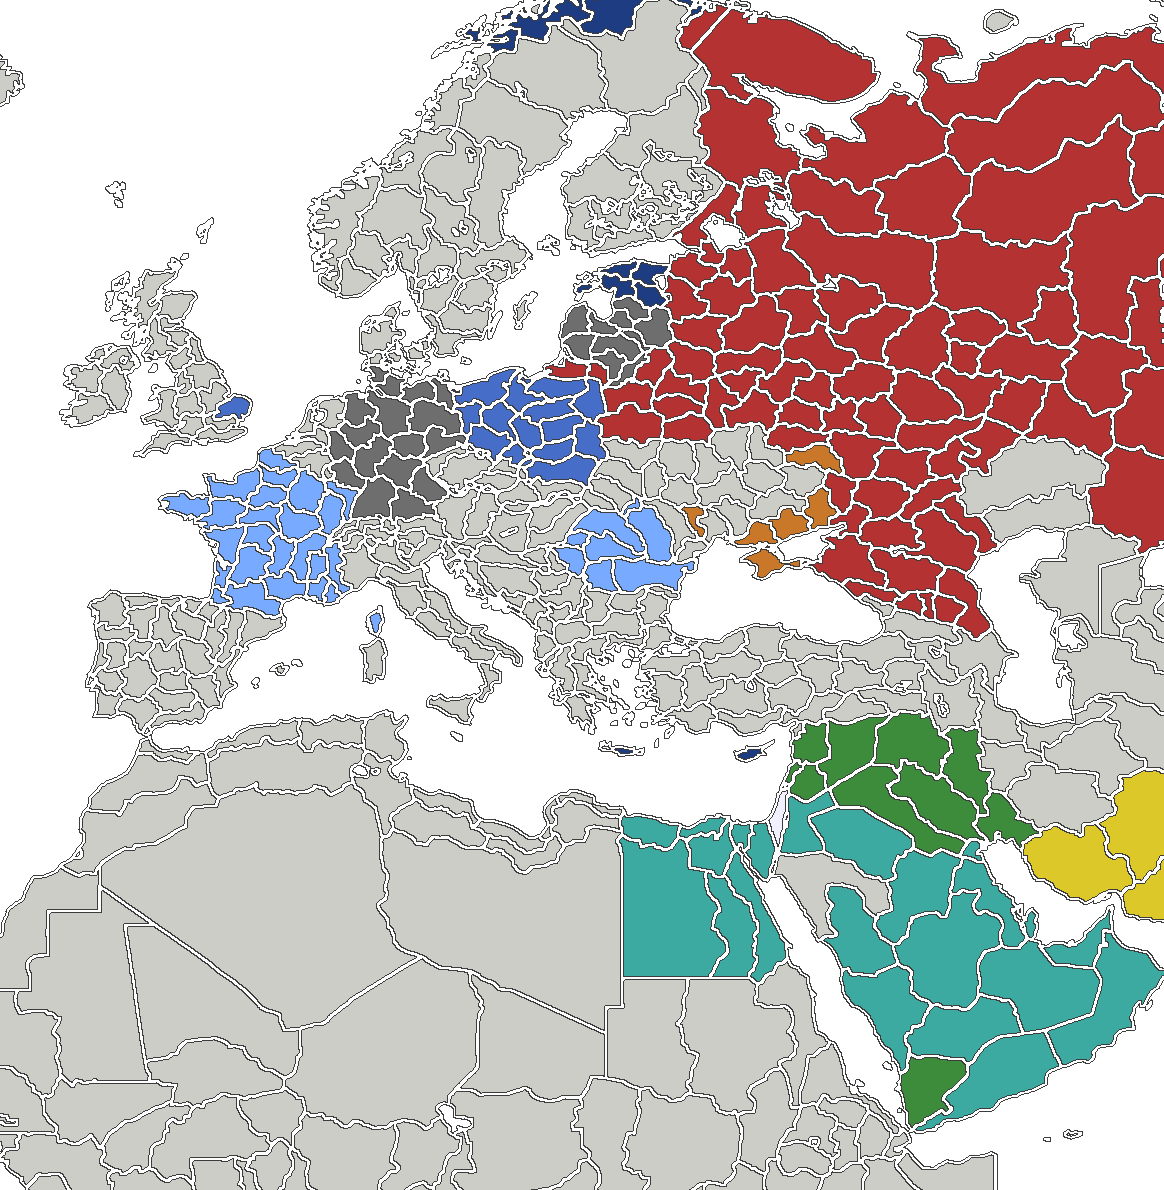
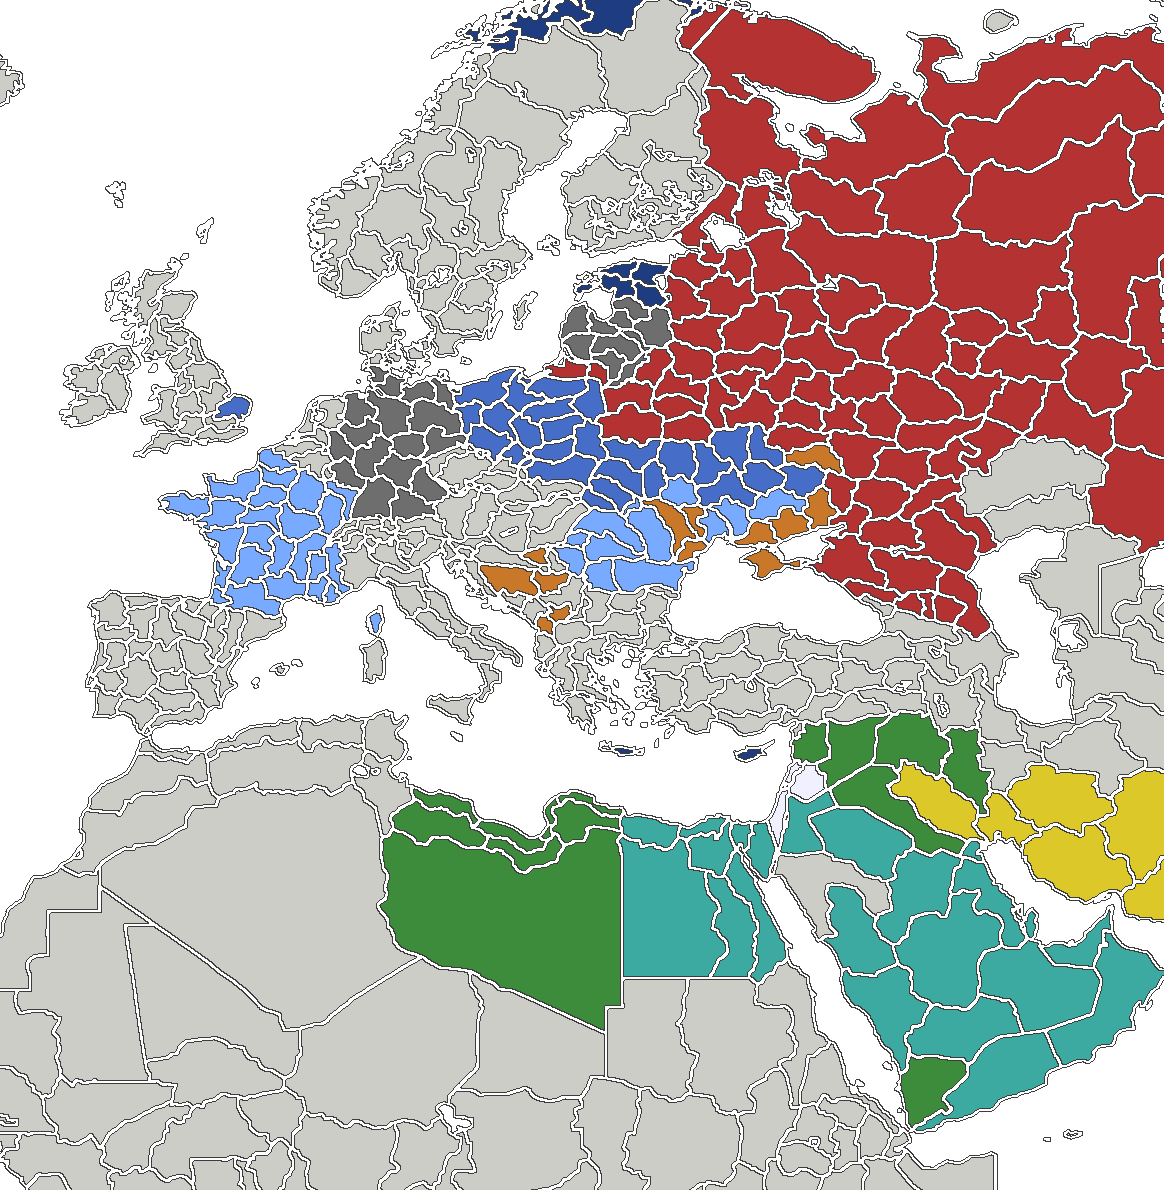
2032 scenario: playability pass (Ukraine split, EER Balkans, GRM Libya, PLA Gulf front), wired into the app

diff --git a/tools/author_scenario_2032.py b/tools/author_scenario_2032.py
@@ -28,16 +28,20 @@ GER_FORWARD = ["Kaunas", "Siauliai", "Zemaitija", "Wilno", "Kurzeme", "Latgale",
 POLAND_2032 = ["Bialystok", "Danzig", "Gdynia", "Katowice", "Kielce", "Krakow", "Lodz", "Lublin", "Plock", "Poznan",
                "Warszawa", "Hinterpommern", "Niederschlesien", "Oberschlesien", "Ermland Masuren", "Ostmark"]
 USA_REAR = ["East Anglia"]
+USA_UKRAINE = ["Kyiv", "Zhytomyr", "Chernigov", "Sumy", "Kharkov", "Poltava", "Cherkasy", "Lwow", "Wolyn",
+               "Stanislawow", "Proskuriv", "Podkarpatska Rus"]
 
 FRANCE_COLONIAL_1939 = ["Aleppo", "Algerian Desert", "Algiers", "Casablanca", "Constantine", "Deir az Zur", "Gabes",
                         "Lebanon", "Marrakech", "Syria", "Tunis"]
 # France leads NATO's Romania formation.
 ROMANIA_2032 = ["Banat", "Bucovina", "Crisana", "Dobrudja", "Moldova", "North Transylvania", "Oltenia", "South Transylvania"]
+FRA_UKRAINE = ["Odessa", "Mykolaiv", "Vinnytsia", "Dnipropetrovsk"]
 
 # USMC: prepositioned in northern Norway, Estonia's littoral, and the eastern Mediterranean bases.
 USMC = ["Harju", "Parnu", "Saaremaa", "Tartu", "Virumaa", "Crete", "Cyprus", "#509", "#508", "#511", "#512", "#507", "#505"]
 
-IDF = ["Palestine"]
+# IDF: Israel plus the buffer it holds in Lebanon and southern Syria.
+IDF = ["Palestine", "Lebanon", "Syria"]
 
 # United Arab Force: Egypt, Jordan and the Arabian peninsula / Gulf states.
 UAF = ["Cairo", "Alexandria", "Suez", "Sinai", "Matrouh", "Western Desert", "Eastern Desert", "Aswan", "Jordan",
@@ -47,21 +51,27 @@ UAF = ["Cairo", "Alexandria", "Suez", "Sinai", "Matrouh", "Western Desert", "Eas
 # Former Soviet republics that are independent and not in this war.
 USSR_NOW_NEUTRAL = ["Georgia", "Armenia", "Azerbaijan", "Abkhazia", "Ashkhabad", "Tashauz", "Khiva", "Karakalpakstan",
                     "Ust Urt", "Guryev", "Uralsk"]
-# Ukraine has no faction (UAF is the United Arab Force). Free Ukraine is neutral ground between the blocs.
-UKRAINE_FREE = ["Kyiv", "Kharkov", "Poltava", "Sumy", "Chernigov", "Cherkasy", "Zhytomyr", "Vinnytsia", "Proskuriv",
-                "Odessa", "Mykolaiv", "Dnipropetrovsk", "Lwow", "Stanislawow", "Wolyn", "Podkarpatska Rus"]
-# Eastern Europe Rebels: the Russian-held parts of Ukraine and Transnistria.
-EER = ["Stalino", "Voroshilovgrad", "Zaporozhe", "Kherson", "Crimea", "Balta Tiraspol"]
+# Ukraine has no faction of its own (UAF is the United Arab Force); it is split between the US Army and France above.
+UKRAINE_FREE = USA_UKRAINE + FRA_UKRAINE
+# Eastern Europe Rebels: "generic Donbas and Balkan style irregular force" (WF team). Russian-held Ukraine,
+# Transnistria and the Moldovan republic, and a Balkan bloc.
+EER = ["Stalino", "Voroshilovgrad", "Zaporozhe", "Kherson", "Crimea", "Balta Tiraspol", "Bessarabia", "Northern Bessarabia",
+       "Serbia", "Vojvodina", "Kosovo", "Bosnia", "Montenegro"]
 # AFRF beyond Russia proper: Kaliningrad, Belarus (incl. its 1939-Polish west), ceded Finnish land, the Suwalki corridor.
 RUS_EXTRA = ["Koningsberg", "Nowogrodek", "Wilejka", "Polesie", "Karjala", "Petsamo", "Suwalki"]
 
-# Global Revolutionary Movement: Syria, Lebanon, Iraq, Yemen.
-GRM = ["Syria", "Aleppo", "Deir az Zur", "Lebanon", "Al Hajara", "Yemen", "#108", "#84", "#88", "#100"]
-# PLA: a small expeditionary lodgement on Iran's southern coast.
-PLA = ["#75", "#76", "#74"]
+# Global Revolutionary Movement: northern/eastern Syria, Iraq, Yemen and Libya.
+GRM = ["Aleppo", "Deir az Zur", "Yemen", "#108", "#84", "#100",
+       "Tripoli", "Tripolitania", "Sirte", "Fezzan", "El Agheila", "Benghasi", "Derna", "Cyrenaica", "Libyan Desert"]
+# PLA: expeditionary lodgement on Iran's southern coast, pushed into southern Iraq toward Kuwait.
+PLA = ["#75", "#76", "#74", "#96", "#88", "Al Hajara"]
 
 # Factions with no Manpower-specialization province in their territory cannot raise battalions at all.
-SPECIALIZATION_OVERRIDES = {"Stalino": "Manpower", "Crete": "Manpower", "Palestine": "Manpower", "#75": "Manpower"}
+SPECIALIZATION_OVERRIDES = {"Stalino": "Manpower", "Serbia": "Manpower", "Crete": "Manpower", "Palestine": "Manpower", "#75": "Manpower", "#63": "Manpower", "Tripoli": "Manpower"}
+# Home-base yields for factions whose map footprint understates what they can field (reinforcement from off-map
+# or national mobilisation). Values are (Manpower, Ammunition) per turn for that province.
+YIELD_OVERRIDES = {"Palestine": (160, 160), "#75": (150, 170), "Crete": (120, 150), "#509": (60, 80), "Stalino": (120, 100),
+                   "Serbia": (80, 60), "East Anglia": (150, 200), "Aleppo": (120, 120), "#63": (80, 120)}
 
 
 def main() -> None:
@@ -94,8 +104,8 @@ def main() -> None:
     give("rus", RUS_EXTRA)
     give("reb", EER)
     give("ger", GERMANY_2032 + GER_FORWARD)
-    give("usa", POLAND_2032 + USA_REAR)
-    give("fra", ROMANIA_2032)
+    give("usa", POLAND_2032 + USA_REAR + USA_UKRAINE)
+    give("fra", ROMANIA_2032 + FRA_UKRAINE)
     give("usmc", USMC)
     give("idf", IDF)
     give("uaf", UAF)
@@ -115,6 +125,11 @@ def main() -> None:
     for n, spec in SPECIALIZATION_OVERRIDES.items():
         for p in by_label[n]:
             overrides[p["ProvinceId"]] = spec
+    yields = {}
+    for n, (mp_y, ammo_y) in YIELD_OVERRIDES.items():
+        for p in by_label[n]:
+            yields[p["ProvinceId"]] = {"Manpower": mp_y, "Ammunition": ammo_y}
+            p["ResourceYield"]["Manpower"], p["ResourceYield"]["Ammunition"] = mp_y, ammo_y
     scenario = {
         "id": "continental_war_2032",
         "status": "DRAFT for owner review. Province ownership is a first pass from a geopolitical brief; see docs/scenario-2032.md.",
@@ -125,6 +140,7 @@ def main() -> None:
         "startingResources": base["startingResources"],
         "diplomacy": base["diplomacy"],
         "specializationOverrides": overrides,
+        "yieldOverrides": yields,
         "provinces": dict(sorted(owner.items())),
     }
     out = ROOT / "data" / "scenario_2032.json"

diff --git a/tools/build_wf_scenario.py b/tools/build_wf_scenario.py
@@ -68,7 +68,7 @@ def write_flag(tag: str) -> str:
 
 
 def main() -> None:
-    scenario_path = Path(sys.argv[1]) if len(sys.argv) > 1 else ROOT / "data" / "scenario_europe.json"
+    scenario_path = Path(sys.argv[1]) if len(sys.argv) > 1 else ROOT / "data" / "scenario_2032.json"
     sc = json.loads(scenario_path.read_text(encoding="utf-8"))
     factions = sc["factions"]
     by_slot = {f["slot"]: f for f in factions}
@@ -119,13 +119,26 @@ def main() -> None:
     EVENTS.write_text(ev.split("  Events:", 1)[0] + "  Events: []\n", encoding="utf-8", newline="\n")
 
     db_path = next((PROJECT / "Assets" / "TextAsset").glob("province_database_*.json"))
-    db = json.loads(db_path.read_text(encoding="utf-8"))
+    # Always start from the recovered original so re-running with another scenario is clean.
+    original = ROOT / "recovered" / "unity" / "ExportedProject" / "Assets" / "TextAsset" / db_path.name
+    db = json.loads((original if original.exists() else db_path).read_text(encoding="utf-8"))
     used = set(by_slot) | {NEUTRAL}
+    slot_of_tag = {f["tag"]: f["slot"] for f in factions}
+    owners = sc.get("provinces")
     counts, neutralised = {}, 0
     for p in db["Provinces"]:
-        if p["Owner"] not in used:
+        if owners is not None:
+            # Explicit scenario: every province is the listed faction's, or neutral.
+            p["Owner"] = slot_of_tag[owners[p["ProvinceId"]]] if p["ProvinceId"] in owners else NEUTRAL
+        elif p["Owner"] not in used:
             p["Owner"] = NEUTRAL
             neutralised += 1
+        spec = sc.get("specializationOverrides", {}).get(p["ProvinceId"])
+        if spec:
+            p["Specialization"] = spec
+        yields = sc.get("yieldOverrides", {}).get(p["ProvinceId"])
+        if yields:
+            p["ResourceYield"].update(yields)
         counts[p["Owner"]] = counts.get(p["Owner"], 0) + 1
     db_path.write_text(json.dumps(db, indent=4), encoding="utf-8")
 
@@ -139,7 +152,7 @@ def main() -> None:
 
     print(f"scenario {sc['id']}: {len(factions)} factions")
     for f in factions:
-        print(f"  {f['tag']:5} {f['name']:11} slot {f['slot']:2} ({f['slotWas']:12}) {f['side']:6} provinces: {counts.get(f['slot'], 0)}")
+        print(f"  {f['tag']:5} {f['name']:18} slot {f['slot']:2} ({f['slotWas']:12}) {f['side']:6} provinces: {counts.get(f['slot'], 0)}")
     print(f"  neutral provinces: {counts.get(NEUTRAL, 0)} ({neutralised} taken from unused slots)")
 
 
